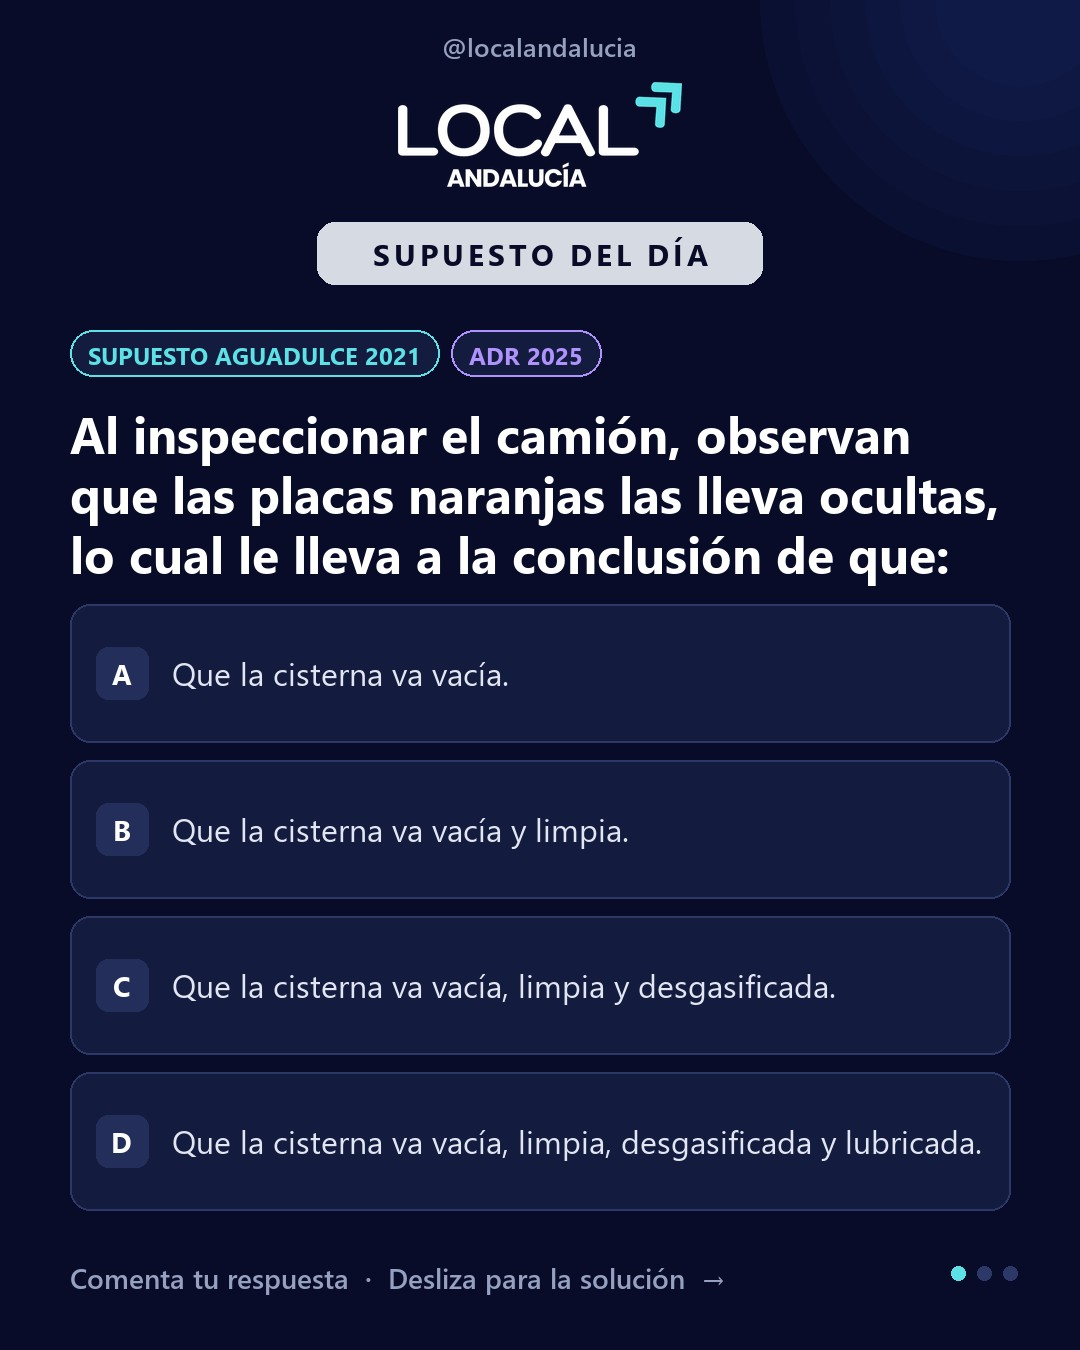
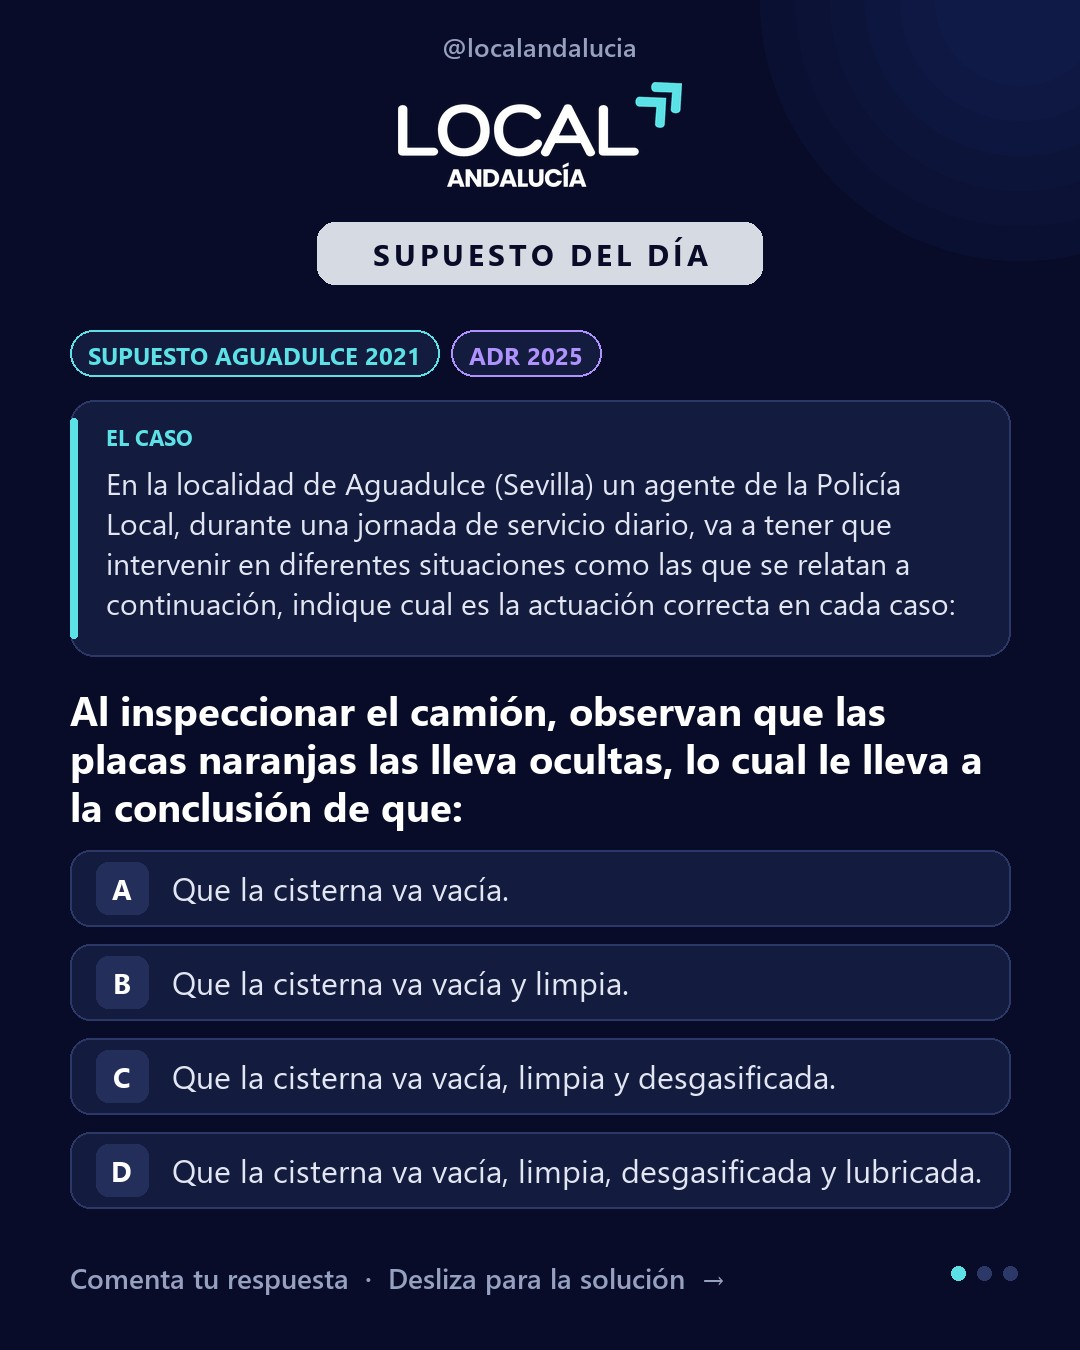
No omitir nunca el caso del supuesto
Los supuestos con enunciado corto se publicaban sin el caso (se pensó para
introducciones genéricas) y la pregunta no se entendía. Ahora, si el caso es
corto, va en un recuadro «EL CASO» en la misma diapositiva de la pregunta.
Rehechas las publicaciones afectadas que estaban en cola.

Changed region(s): [[0.0611, 0.28, 0.9472, 0.9022]]

diff --git a/generador/carrusel.py b/generador/carrusel.py
@@ -25,7 +25,7 @@ W, H = 1080, 1350
 M = 70  # margen lateral
 TOP = 330  # donde empieza el contenido (debajo de la cabecera)
 LIMITE = H - 150  # por debajo va el pie
-MIN_CASO = 350  # mas corto suele ser solo la introduccion del supuesto
+MIN_CASO = 350  # mas corto: el caso va en la diapositiva de la pregunta (nunca se omite)
 
 # Paleta de la marca (logo y posts anteriores)
 FONDO = (8, 12, 40)
@@ -287,12 +287,25 @@ def slides_caso(p):
     return imgs
 
 
+def caso_en_linea(d, y, p, alto_max=380):
+    """Si el supuesto tiene un enunciado corto (no lleva diapositiva propia), lo dibuja en un
+    recuadro "EL CASO" encima de la pregunta. Sin el caso la pregunta no se entiende."""
+    if p["tipo"] != "corta" or len(p["enunciado"]) < 60 or len(p["enunciado"]) >= MIN_CASO:
+        return y
+    f, lineas, tam = ajustar(d, p["enunciado"], TXT, W - 2 * M - 80, alto_max - 90, 30, 22, 1.35)
+    return caja_texto(d, y, lineas, f, tam, TEXTO, titulo="EL CASO", barra=CIAN, interlineado=1.35) + 26
+
+
 def slide_pregunta(p):
     img, d = lienzo(pildora(p))
     etiqueta_conv = ("EXAMEN " if p["tipo"] == "test" else "SUPUESTO ") + p["convocatoria"].upper()
     y = fila_etiquetas(d, TOP, [(etiqueta_conv, CIAN), (p["norma_corta"], MORADO)]) + 24
+    y0 = y
+    y = caso_en_linea(d, y, p, alto_max=330)
     opciones = [(l, t) for l, t in zip("ABCD", p["opciones"]) if t]
     alto_preg = 250 if sum(len(t) for _, t in opciones) < 400 else 190
+    if y > y0:
+        alto_preg = 150
     f, lineas, tam = ajustar(d, p["pregunta"], TIT, W - 2 * M, alto_preg, 50, 32, 1.2)
     y = escribir(d, (M, y), lineas, f, tam, BLANCO, 1.2) + 24
     hueco = 18
@@ -348,7 +361,9 @@ def slide_pregunta_abierta(p):
     img, d = lienzo(pildora(p))
     y = fila_etiquetas(d, TOP, [(f"SUPUESTO REAL · {p['convocatoria'].upper()}", CIAN),
                                ("PREGUNTA A DESARROLLAR", MORADO)]) + 34
-    f, lineas, tam = ajustar(d, p["pregunta"], TIT, W - 2 * M, 470, 62, 34, 1.2)
+    y0 = y
+    y = caso_en_linea(d, y, p)
+    f, lineas, tam = ajustar(d, p["pregunta"], TIT, W - 2 * M, 470 if y == y0 else 300, 62, 30, 1.2)
     y = escribir(d, (M, y), lineas, f, tam, BLANCO, 1.2) + 40
     d.line((M, y, M + 260, y), fill=CIAN, width=5)
     y += 40
